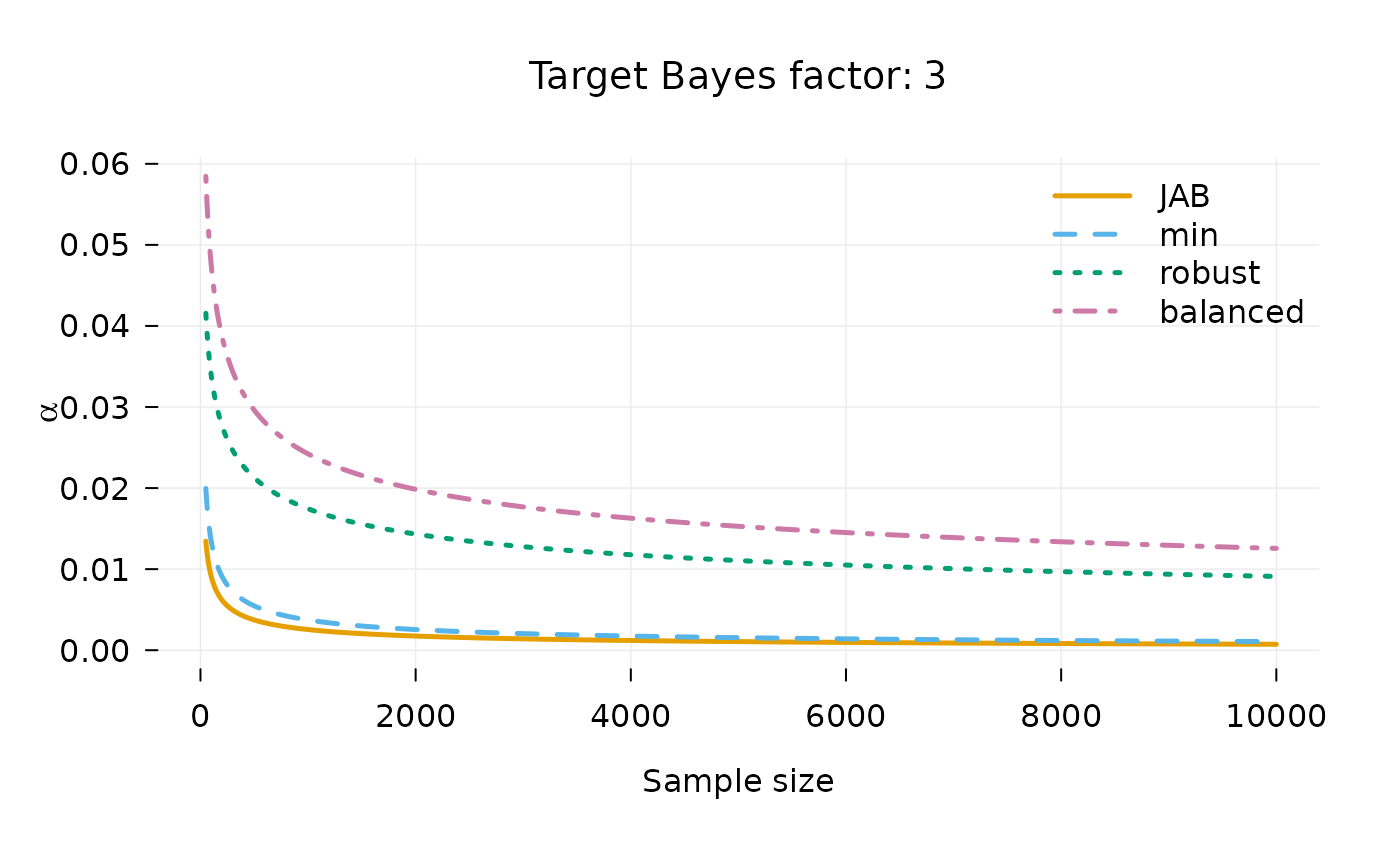
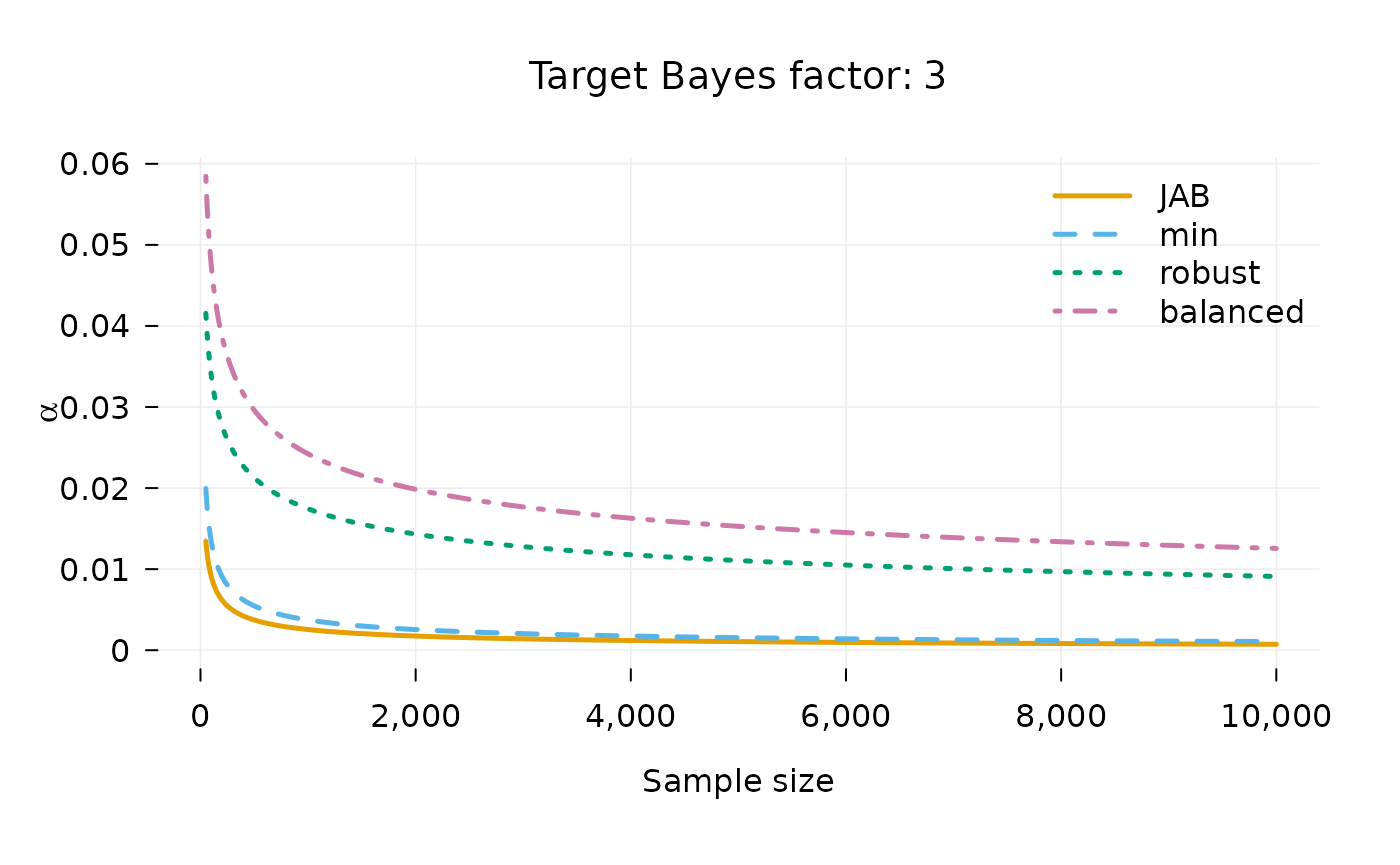
Deploying to gh-pages from @ jespernwulff/alphaN@1252b38bfbcb4d1cb65e925977d7a2e772de2536 🚀

diff --git a/reference/alphaN_report.html b/reference/alphaN_report.html
@@ -173,7 +173,7 @@ is printed to the console.</p>
     <div class="sourceCode"><pre class="sourceCode r"><code><span class="r-in"><span><span class="fu">alphaN_report</span><span class="op">(</span>n <span class="op">=</span> <span class="fl">1000</span>, BF <span class="op">=</span> <span class="fl">3</span>, method <span class="op">=</span> <span class="st">"JAB"</span><span class="op">)</span></span></span>
 <span class="r-out co"><span class="r-pr">#&gt;</span> # alphaN settings report</span>
 <span class="r-out co"><span class="r-pr">#&gt;</span> </span>
-<span class="r-out co"><span class="r-pr">#&gt;</span> Generated on 2026-07-16 with alphaN 0.2.0.9000.</span>
+<span class="r-out co"><span class="r-pr">#&gt;</span> Generated on 2026-07-17 with alphaN 0.2.0.9000.</span>
 <span class="r-out co"><span class="r-pr">#&gt;</span> </span>
 <span class="r-out co"><span class="r-pr">#&gt;</span> ## Inputs</span>
 <span class="r-out co"><span class="r-pr">#&gt;</span> </span>
@@ -196,7 +196,7 @@ is printed to the console.</p>
 <span class="r-in"><span><span class="fu">alphaN_report</span><span class="op">(</span>n <span class="op">=</span> <span class="fl">1000</span>, BF <span class="op">=</span> <span class="fl">3</span>, method <span class="op">=</span> <span class="st">"ES"</span>, de <span class="op">=</span> <span class="fl">0.5</span>, file <span class="op">=</span> <span class="va">f</span><span class="op">)</span></span></span>
 <span class="r-out co"><span class="r-pr">#&gt;</span> # alphaN settings report</span>
 <span class="r-out co"><span class="r-pr">#&gt;</span> </span>
-<span class="r-out co"><span class="r-pr">#&gt;</span> Generated on 2026-07-16 with alphaN 0.2.0.9000.</span>
+<span class="r-out co"><span class="r-pr">#&gt;</span> Generated on 2026-07-17 with alphaN 0.2.0.9000.</span>
 <span class="r-out co"><span class="r-pr">#&gt;</span> </span>
 <span class="r-out co"><span class="r-pr">#&gt;</span> ## Inputs</span>
 <span class="r-out co"><span class="r-pr">#&gt;</span> </span>

diff --git a/news/index.html b/news/index.html
@@ -41,7 +41,7 @@
 <h3 id="new-features-development-version">New features<a class="anchor" aria-label="anchor" href="#new-features-development-version"></a></h3>
 <ul><li><p>New function <code><a href="../reference/alphaN_report.html">alphaN_report()</a></code> writes a preregistration-ready Markdown settings report: every input behind a calibrated alpha (sample size, evidence target, method, prior settings), the resulting alpha, the decision rule, and the references to cite. It mirrors the downloadable report of the companion Shiny application and can write straight to a file.</p></li>
 <li><p><code><a href="../reference/JAB.html">JAB()</a></code> called without a <code>covariate</code> now returns a named vector with the Bayes factor of every coefficient except the intercept (which remains available on explicit request).</p></li>
-<li><p><code><a href="../reference/alphaN_plot.html">alphaN_plot()</a></code> and <code><a href="../reference/JAB_plot.html">JAB_plot()</a></code> have been restyled: colorblind-safe Okabe-Ito palette, light grid lines, open axes, and horizontal axis labels. <code><a href="../reference/alphaN_plot.html">alphaN_plot()</a></code> additionally gains a <code>log</code> argument (“x”, “y”, “xy”) which helps when the fast-falling “moment” curve is drawn next to the others.</p></li>
+<li><p><code><a href="../reference/alphaN_plot.html">alphaN_plot()</a></code> and <code><a href="../reference/JAB_plot.html">JAB_plot()</a></code> have been restyled: colorblind-safe Okabe-Ito palette, light grid lines, open axes, and horizontal axis labels. <code><a href="../reference/alphaN_plot.html">alphaN_plot()</a></code> additionally gains a <code>log</code> argument (“x”, “y”, “xy”) which helps when the fast-falling “moment” curve is drawn next to the others, and its tick labels always use plain notation (“0.0001” and “10,000”, never “1e-04”).</p></li>
 <li><p>New function <code><a href="../reference/klauerBF.html">klauerBF()</a></code> exports the effect-size and moment Bayes factors of Klauer, Meyer-Grant &amp; Kellen (2025) that <code><a href="../reference/alphaN.html">alphaN()</a></code> inverts: from a t statistic (one-sample test or single regression coefficient) or from an F statistic for a joint test of <code>q</code> coefficients.</p></li>
 <li><p><code><a href="../reference/alphaN.html">alphaN()</a></code> (methods <code>"ES"</code> and <code>"moment"</code>) gains arguments <code>q</code> and <code>p</code>. With <code>q &gt; 1</code> the alpha level is calibrated for the joint F test of q coefficients through the exact regression-case Bayes factors of Klauer et al. (2025, Table 4), implemented natively including their Gaussian hypergeometric term; <code>p</code> sets the number of retained model parameters so that small-sample calibrations can use the effective sample size <code>n - p</code> (residual degrees of freedom). The defaults (<code>q = 1</code>, <code>p = 0</code>) reproduce the previous behavior exactly. The moment-prior default <code>nu</code> is now <code>5 + (q - 1)</code> and the ES-prior scale recommendation generalizes to <code>r = sqrt((nu - 2)/(nu * q)) * de</code>, both following the paper (unchanged at <code>q = 1</code>).</p></li>
 <li><p>New function <code><a href="../reference/n_effective.html">n_effective()</a></code> computes the effective sample size <code>n * (se/se_robust)^2</code> that Wulff &amp; Taylor (2024) recommend as a sensitivity check when calibrating alpha with clustered (panel) data.</p></li>

diff --git a/news/index.md b/news/index.md
@@ -24,7 +24,9 @@
   lines, open axes, and horizontal axis labels.
   [`alphaN_plot()`](https://jespernwulff.github.io/alphaN/reference/alphaN_plot.md)
   additionally gains a `log` argument (“x”, “y”, “xy”) which helps when
-  the fast-falling “moment” curve is drawn next to the others.
+  the fast-falling “moment” curve is drawn next to the others, and its
+  tick labels always use plain notation (“0.0001” and “10,000”, never
+  “1e-04”).
 
 - New function
   [`klauerBF()`](https://jespernwulff.github.io/alphaN/reference/klauerBF.md)

diff --git a/reference/alphaN_report.md b/reference/alphaN_report.md
@@ -133,7 +133,7 @@ printed to the console.
 alphaN_report(n = 1000, BF = 3, method = "JAB")
 #> # alphaN settings report
 #> 
-#> Generated on 2026-07-16 with alphaN 0.2.0.9000.
+#> Generated on 2026-07-17 with alphaN 0.2.0.9000.
 #> 
 #> ## Inputs
 #> 
@@ -156,7 +156,7 @@ f <- tempfile(fileext = ".md")
 alphaN_report(n = 1000, BF = 3, method = "ES", de = 0.5, file = f)
 #> # alphaN settings report
 #> 
-#> Generated on 2026-07-16 with alphaN 0.2.0.9000.
+#> Generated on 2026-07-17 with alphaN 0.2.0.9000.
 #> 
 #> ## Inputs
 #> 